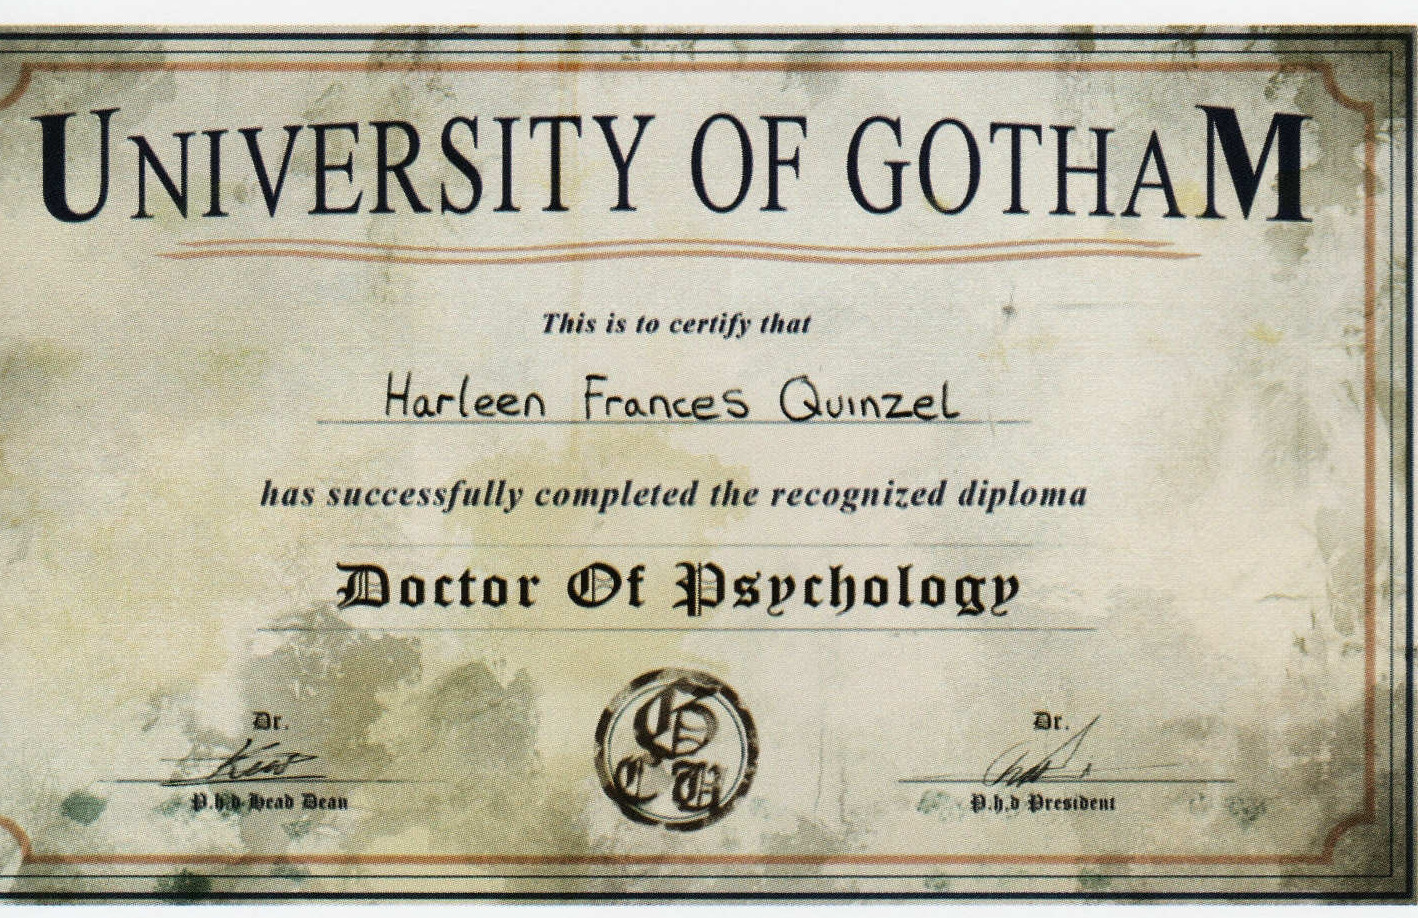
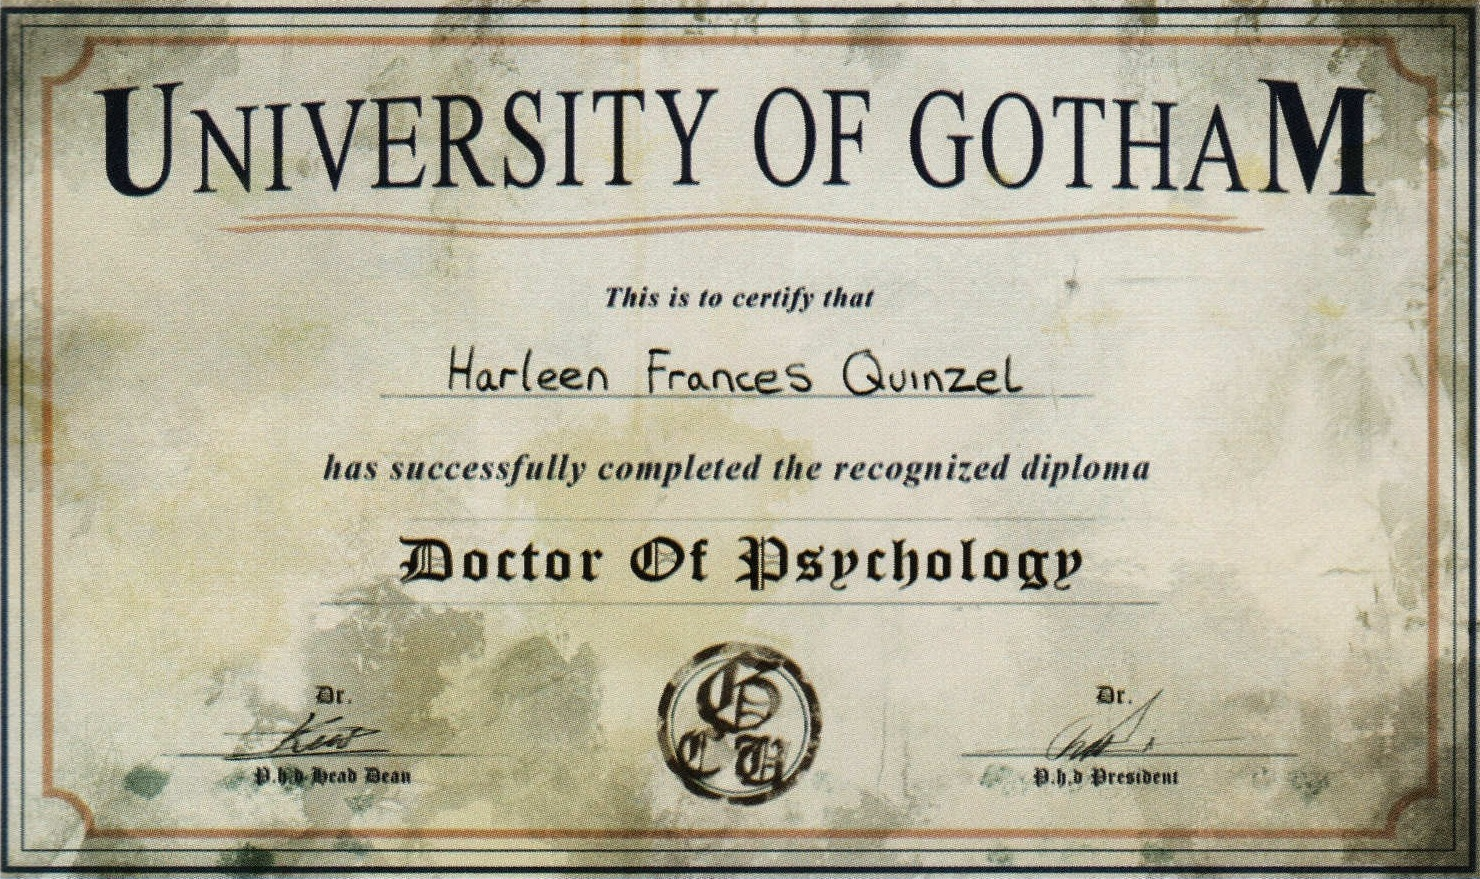
Re-crop the Harleen Quinzel diploma to the whole certificate
The artbook crop started about 60px inside the certificate, cutting off its left
border, and carried paper margins above and below. Crop again from the same
scan to the certificate's outer frame (1480x879) and update the record's size,
crop box and hash. The hub preview no longer needs to scale the image.

diff --git a/arkham.css b/arkham.css
@@ -475,8 +475,8 @@
 /* The frame takes its height from aspect-ratio, so fitted images are pinned to it instead of relying on height:100%. */
 .arkham .pause-panel .pause-art:is(.is-contain,.is-small,.is-document){position:relative}
 .arkham .pause-panel .pause-art:is(.is-contain,.is-small) img{position:absolute;inset:0;width:100%;height:100%;max-width:none;max-height:none;object-fit:contain}
-/* Whole document visible: fit by height, then scale just enough to push the scan's paper margins (about 26px above, 12px below in 918px) out of the frame. */
-.arkham .pause-panel .pause-art.is-document img:not(.pause-art-backdrop){position:absolute;inset:0;z-index:1;width:100%;height:100%;object-fit:contain;transform:scale(1.042);transform-origin:50% 68.4%;filter:drop-shadow(0 10px 22px #000c)}
+/* Whole document visible: the sheet fits inside the frame; a blurred copy fills the sides. */
+.arkham .pause-panel .pause-art.is-document img:not(.pause-art-backdrop){position:absolute;inset:0;z-index:1;width:100%;height:100%;object-fit:contain;filter:drop-shadow(0 10px 22px #000c)}
 .arkham .pause-panel .pause-art.is-document .pause-art-backdrop{position:absolute;inset:-24px;width:calc(100% + 48px);height:calc(100% + 48px);object-fit:cover;filter:blur(18px) brightness(.58) saturate(.9)}
 .arkham .pause-panel .browser-panel-copy>p.pause-enter{margin:18px 0 0;font-size:13px;color:#91a4a8}
 .arkham .pause-enter kbd,.arkham .pause-controls kbd{display:inline-block;margin-right:6px;padding:1px 6px;border:1px solid #b3c0be77;border-radius:3px;font:11px/1.5 var(--arkham-condensed);color:#c6d7d1}

diff --git a/arkham_pages.py b/arkham_pages.py
@@ -105,7 +105,7 @@ def build_arkham_archive(data,shell):
         return f'<span class="pause-count" data-record="{key}" data-total="{total}" data-record-label="{labels[key]}" title="{esc(label)}">{labels[key]} 0 / {total}</span>' if key else ''
     def art(href):
         i=art_pool[hub_art[href]];fit=' is-small' if i['width']<900 else ' is-contain' if i['height']>i['width'] else ''
-        if i['id']=='a05-diploma': fit=' is-document'  # show the whole certificate; the scan's paper margins sit outside the frame
+        if i['id']=='a05-diploma': fit=' is-document'  # show the whole certificate
         assert not i.get('spoiler'),i['id']
         # A document keeps its whole sheet in view; a blurred copy of it fills the frame around the sheet.
         backdrop = f'<img class="pause-art-backdrop" src="/assets/media/{esc(i["file"])}" width="{i["width"]}" height="{i["height"]}" alt="" aria-hidden="true" loading="lazy">' if fit == ' is-document' else ''

diff --git a/VOICES-ROUTES-2026-10-26.md b/VOICES-ROUTES-2026-10-26.md
@@ -47,3 +47,5 @@ conroy_profile.py（新的 `voices_chapters`、门、作品切换、年表标记
   - DC 漫画封面在 arkham-archive-research.json 标注为私有研究素材、未取得转载授权，未用于前台。
   - 预览框高度来自 aspect-ratio，原 is-contain / is-small 的 height:100% 不生效，竖图和证书被裁。改为把这类图绝对定位铺满框后再 contain；证书另设 is-document，按高度完整显示并微放大 4.2%，把扫描页上下的纸页白边推出框外（原图不改）。
   - 证书两侧不留黑边：同一张图的模糊压暗副本（aria-hidden）铺满预览框作底，证书本体加投影。
+  - 证书原裁剪（设定集扫描 1 (80).jpg，x 101–1519）切掉了左侧约 60px 边框，上下又带纸页白边。按证书外框重裁为 [38,1981,1518,2860]，1480×879；arkham-artbook.json 的尺寸、裁剪坐标与 sha256 同步更新，webp 重新生成。预览不再需要放大，去掉 scale。
+  - 注意：build_webp.py 会为别的工作流新增、尚无 webp 的图片（如 riddler-scans）批量生成副本；只提交本轮相关的 webp。
